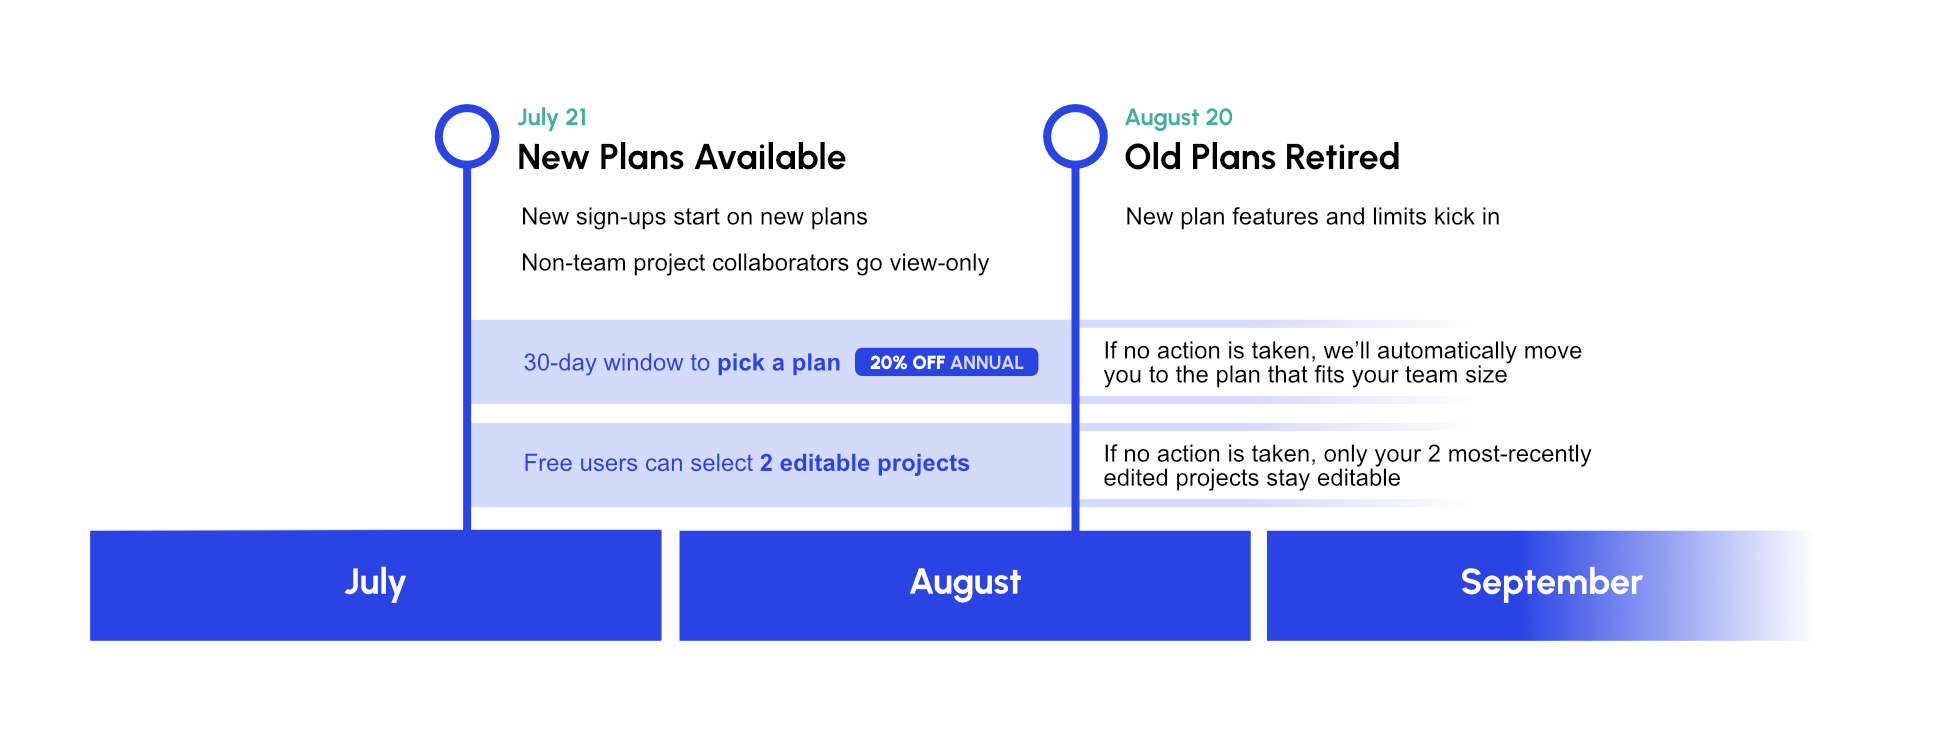
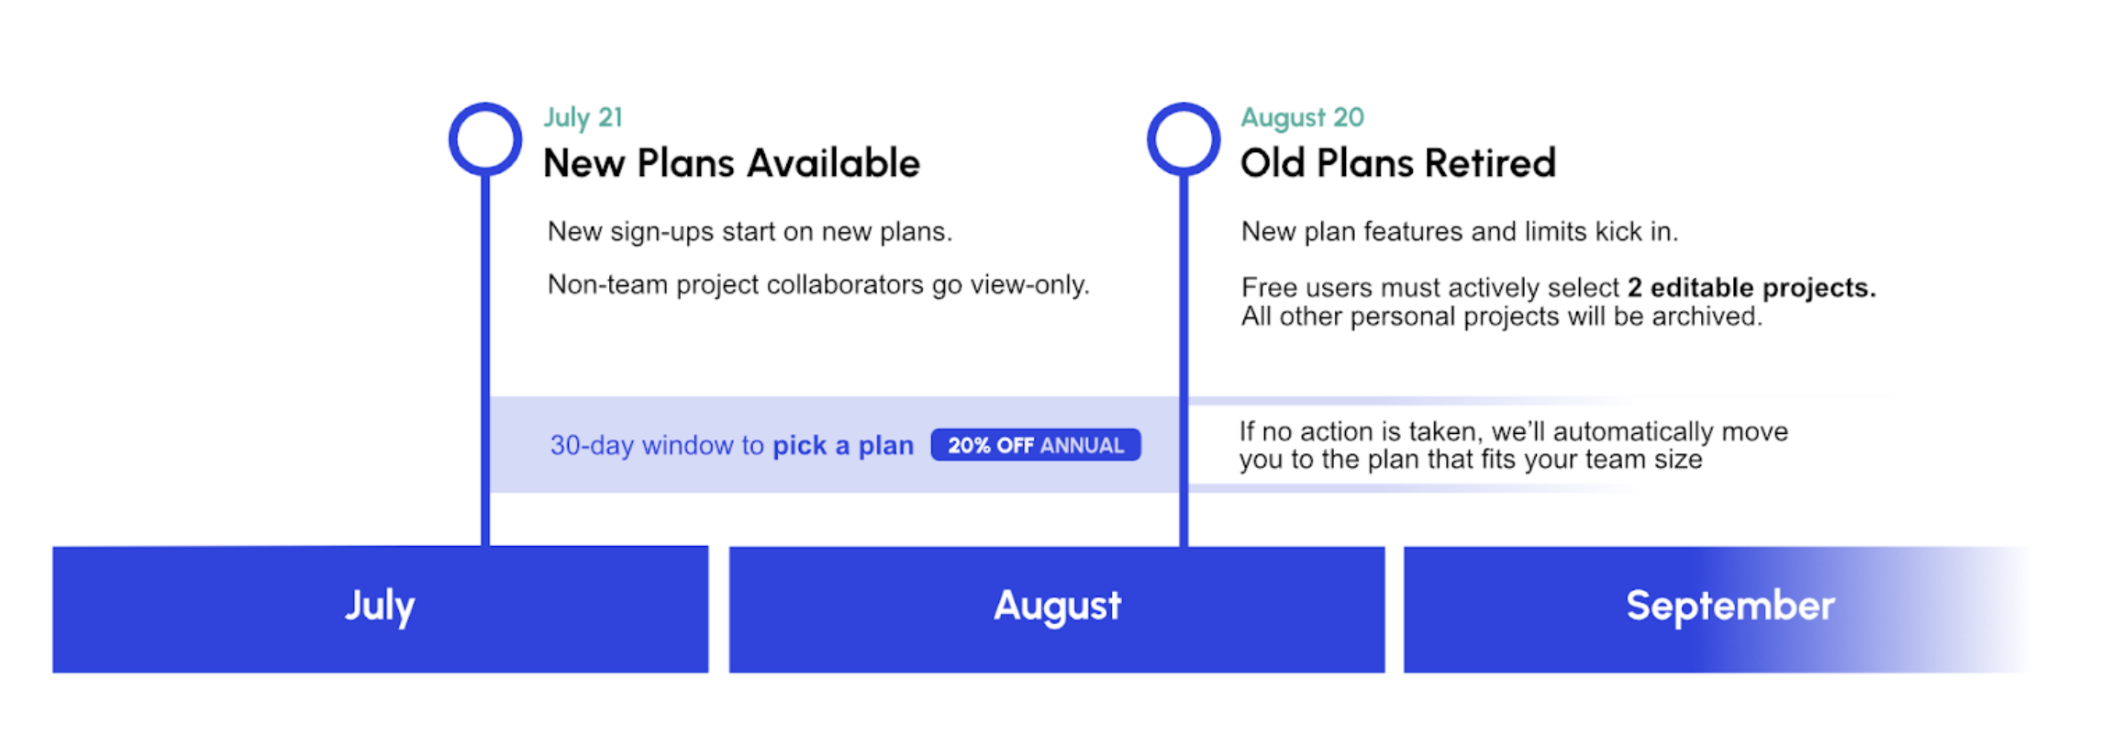
update info

Changed region(s): [[0.0, 0.1202, 0.9583, 0.9317]]

diff --git a/docs/accounts-billing/plan-pricing.md b/docs/accounts-billing/plan-pricing.md
@@ -26,7 +26,7 @@ FlutterFlow has evolved significantly, from a visual builder to a complete devel
 
 ### What's Changing?
 
-As part of broader improvements to the platform, FlutterFlow is updating its pricing and packaging model effective **July 14, 2025**. The update introduces new plan tiers aligned with team size, simplifies billing, and ensures better alignment between user needs and platform capabilities.
+As part of broader improvements to the platform, FlutterFlow is updating its pricing and packaging model effective **July 21, 2025**. The update introduces new plan tiers aligned with team size, simplifies billing, and ensures better alignment between user needs and platform capabilities.
 
 **Key Changes**
 
@@ -80,7 +80,7 @@ Below are the details on all the changes, so you’ll know exactly what to expec
           <ul class="feature-list">
             <li>Unlimited API endpoints</li>
             <li>One-click app store deployment available</li>
-            <li>Snapshot backups not available</li>
+            <li>Snapshot backups are not accessible</li>
             <li>1 Test and 1 Development Environment per project</li>
             <li>Email access only to technical support</li>
           </ul>
@@ -127,7 +127,7 @@ Below are the details on all the changes, so you’ll know exactly what to expec
       
       <tr>
         <td><strong>Teams</strong> ($420+)<br />6+ users</td>
-        <td>Business ($1,000+) <span class="price-up">⇧</span></td>
+        <td>Enterprise (Contact Sales) <span class="price-up">⇧</span></td>
         <td class="whats-changing-col">
           <ul class="feature-list">
             <li><em>Same as above</em></li>
@@ -161,7 +161,7 @@ Now our plans are evolving to reflect that growth. We’ve introduced new featur
 Who is affected by this pricing change?
 </summary>
 <p>
-All FlutterFlow users will move to the new structure as of July 14, 2025.
+All FlutterFlow users will move to the new structure as of July 21, 2025.
 
 Enterprise customers on custom contracts are not affected by these changes.
 </p>
@@ -262,7 +262,7 @@ If you’re currently a paying user and would prefer not to be part of the migra
 </p>
 <ul>
   <li><strong>Continue building on the Free plan:</strong> you can downgrade your plan to Free, where you will be able to view, edit, and run any 2 existing projects of your choosing inside the editor, but paid‑tier features, deployments, and team seats will be disabled until you upgrade.</li>
-  <li><strong>Export your code:</strong> download the full Flutter source and assets for each project before August 14, 2025 and continue building locally to retain full ownership of your codebase.</li>
+  <li><strong>Export your code:</strong> download the full Flutter source and assets for each project before August 20, 2025 and continue building locally to retain full ownership of your codebase.</li>
 </ul>
 <p>
 If you’d like to review your options or adjust your usage ahead of time, our support team is here to help. You will receive an email confirming the plan your account will move to, but can also confirm by logging into your account after July 21, 2025 to see how your team maps to the new tiers.
@@ -519,9 +519,7 @@ Yes, users can now belong to multiple teams in FlutterFlow – this is a new cap
 <p>
 If you are added as an editor on more than one team, you will count toward the seat total on each of those teams, and each team will manage your seat and billing as part of their own subscription. You will not be billed individually – all billing remains centralized at the team level.
 </p>
-<p>
-Note: you can also be added as a view-only collaborator on projects that are a part of different teams. View-only collaborators do not count toward any seat limits or billing.
-</p>
+
 </details>
 
 <details>
